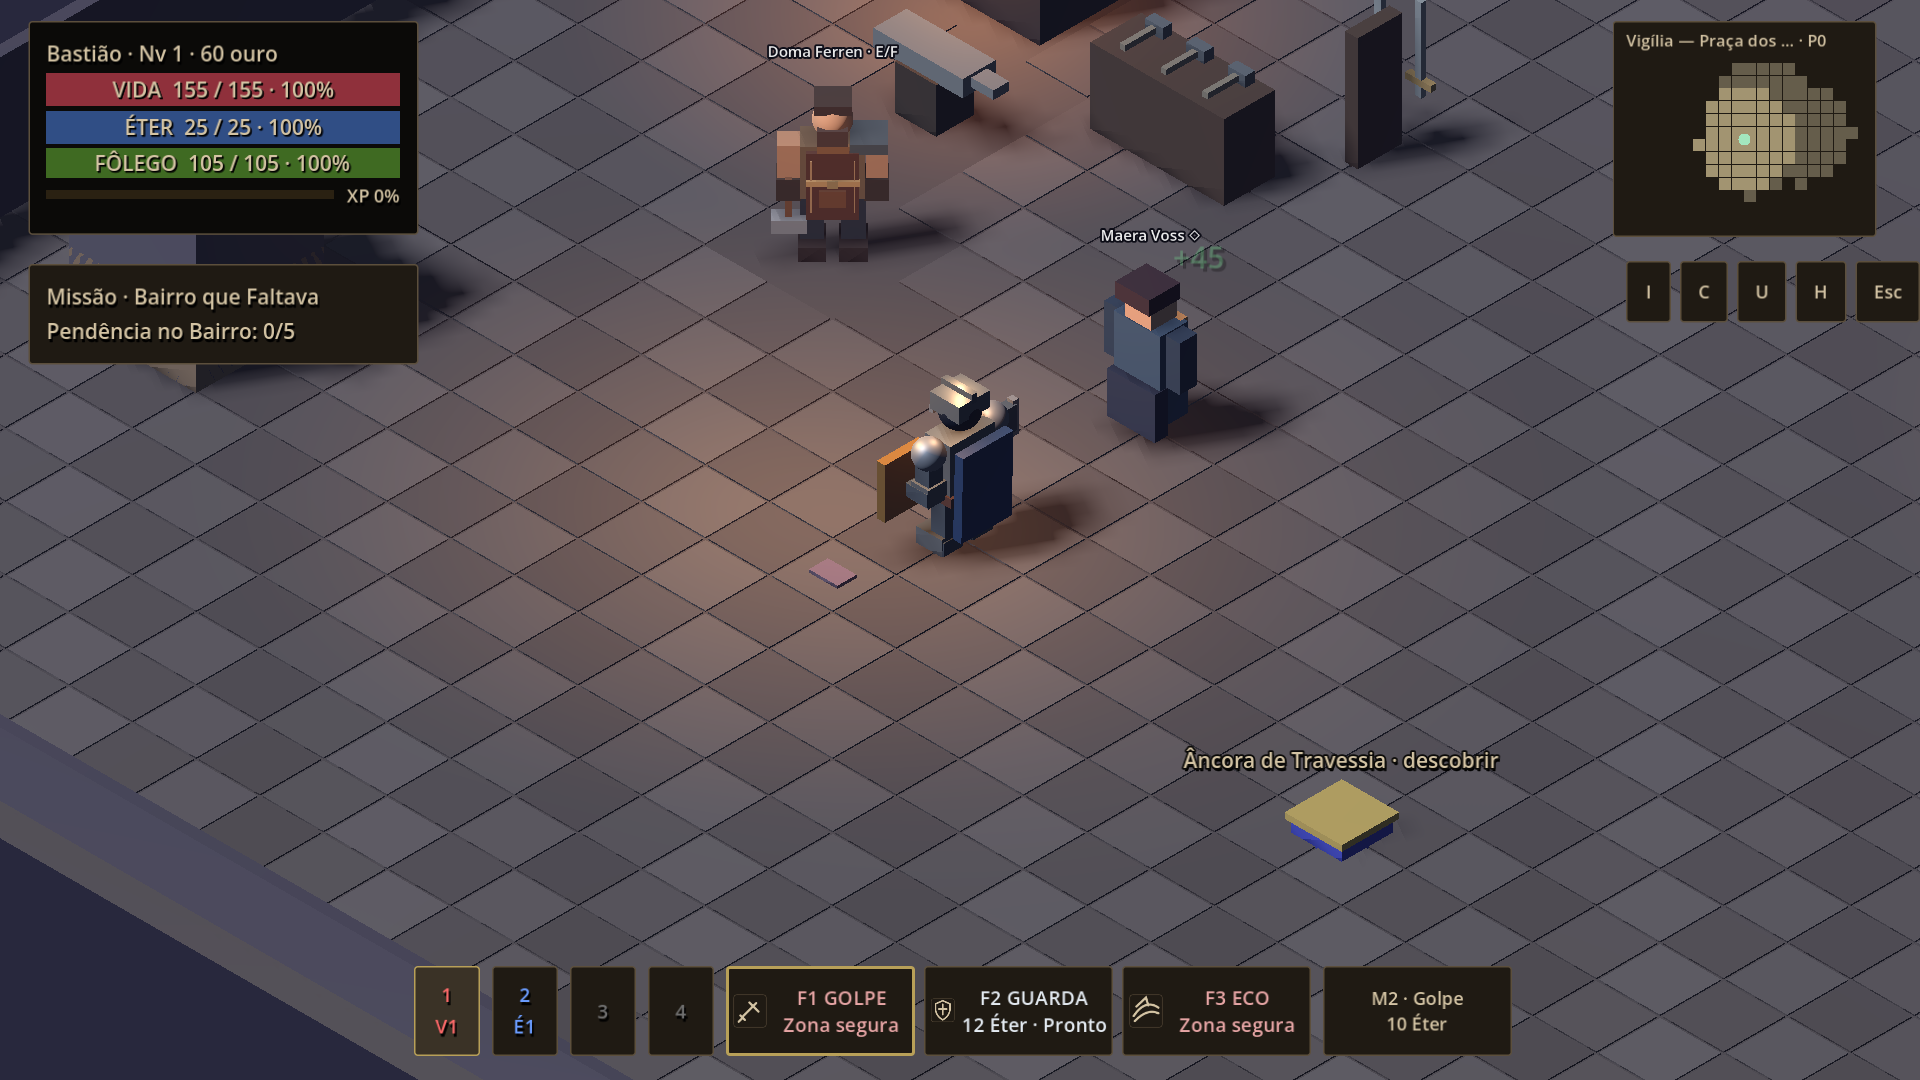
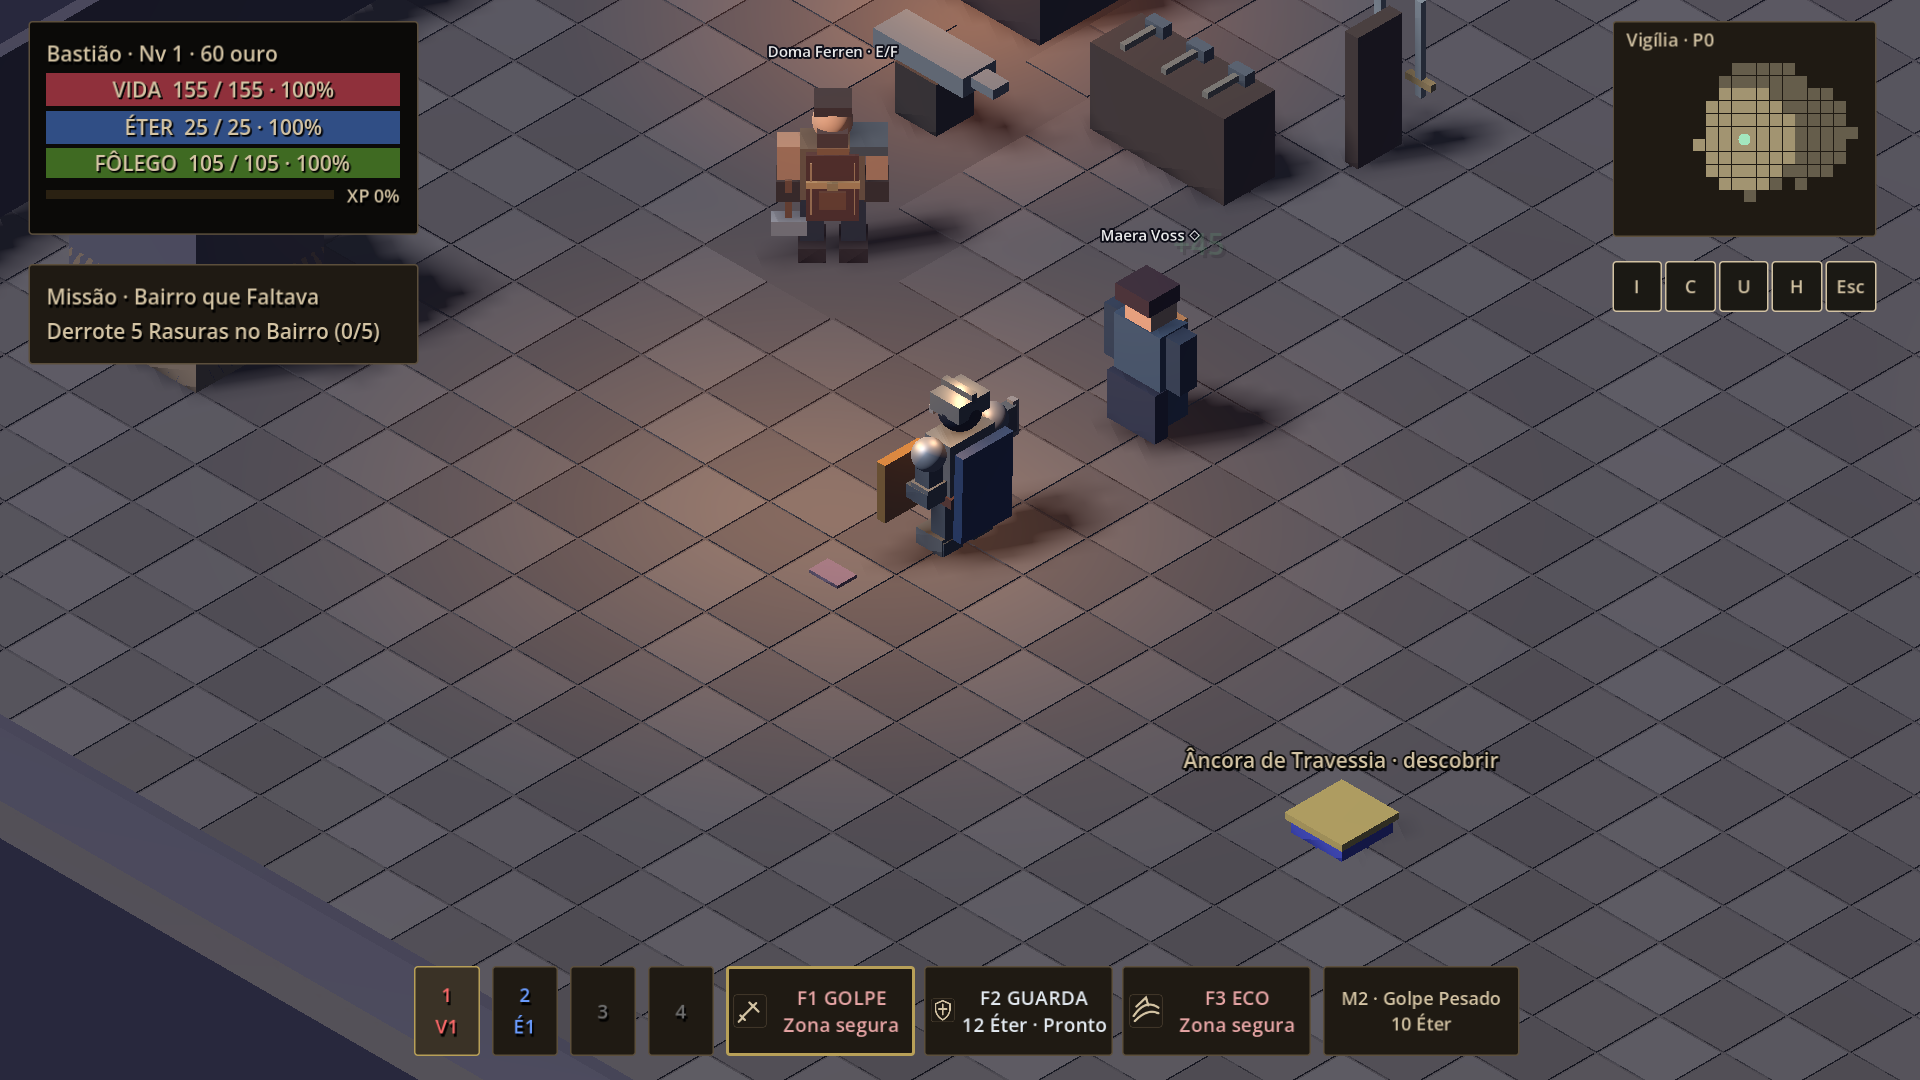
Prepare actor replacement contracts and refine archive HUD

diff --git a/docs/FASE27_VALIDATION.md b/docs/FASE27_VALIDATION.md
@@ -6,7 +6,7 @@
 
 - Validador do grafo: zero erros; IDs/cenas, entradas, retornos e caminhos críticos conferidos.
 - 21 suítes completas aprovadas, incluindo inventário/arraste, NPCs/comércio, combate, HUD, persistência, consolidação e bot10/10. Resultados em relatorios-fase20/results.json e logs *-final.log no ZIP.
-- Fase27: 138 verificações finais, incluindo ataques/custos/dano na transição, retorno seguro, buffer dos encontros, rampa/altura/raycast, navegação/porta, fog por piso, posições inválidas, migração, recompensas e XP parcial. O número pode variar com pares de rótulos visíveis; todas as falhas são explícitas.
+- Fase27: 142 verificações finais, incluindo ataques/custos/dano na transição, retorno seguro, buffer dos encontros, rampa/altura/raycast, navegação/porta, fog por piso, posições inválidas, migração, recompensas e XP parcial. O número pode variar com pares de rótulos visíveis; todas as falhas são explícitas.
 - GUI headless:157 verificações; renderizador real:169 verificações, inputs nativos, circuito completo e12 capturas reais (quatro regiões nas duas resoluções, mapa expandido, retorno a Doma e XP parcial nas duas resoluções). Inspeção visual realizada. Fixtures neutralizam movimento/colisão de combate dos inimigos; preservam piso e gravidade. Combate é testado separadamente.
 - EXE Windows exportado:32 verificações aprovadas de menu, movimento, combate, comércio, save/loot/objetos, âncoras e conexões canônicas.
 - XP50% validada no preenchimento fino e em ganho real de progressão; painel de status/missão≈260px; minimapa compacto centrado no jogador; rastreador de pendência no Bairro não usa mortes do Arquivo para completar missão.
@@ -17,10 +17,10 @@
 
 | Região | Mediana ms/frame | p95 ms/frame | Draw calls |
 |---|---:|---:|---:|
-| map_01 | 35.51 | 42.89 | 267 |
-| map_02 | 35.77 | 43.27 | 229 |
-| map_03 | 35.90 | 42.23 | 207 |
-| map_04 | 36.01 | 40.43 | 222 |
+| map_01 | 35.29 | 42.42 | 267 |
+| map_02 | 36.75 | 43.09 | 231 |
+| map_03 | 35.22 | 41.09 | 211 |
+| map_04 | 35.43 | 38.42 | 226 |
 
 Reproduzir: Godot gráfico com `--path . --script res://tools/profile_regions.gd`, em perfil AETHEL_TEST_SAVE_DIR isolado. Dados completos em docs/evidence/fase27-performance.json.
 
@@ -31,3 +31,9 @@ Playtest humano completo continua pendente. Não confundir automação gráfica 
 Mapas são estruturas greybox iniciais, sem o chefe do Arquivo, cutscenes, decisão canônica ou campanha completa. Perfil de desempenho ainda requer otimização e medições na máquina do jogador. Avisos ambientais de certificados/cache/editor e avisos de encerramento de ObjectDB em algumas suítes estão nos logs; nenhuma falha crítica de GDScript passou nas validações finais.
 
 A planilha fornecida não foi alterada nem marcada como concluída. As restrições são respeitadas pela implementação: mesmos donos de estado, combate e save; layout usa âncoras da viewport. Alterações funcionais da Fase27 (navegação, segurança e contador regional) estão separadas da reorganização visual na documentação.
+
+## Revisão de personagens e HUD do Arquivo
+
+Recursos de contrato preservam as cápsulas existentes e instalam âncoras fora dos modelos. Troca efetiva do modelo do Bastião testada com posição, HP e forma física preservados. Registro de estados e ordem de produção em ART_REGISTRY.md, sem aprovações artísticas presumidas. Campeã e Elite recebem cristas e cores diferentes; Rasuras comuns também exibem nome. Oclusão verifica até quatro obstáculos sucessivos próximos, preservando piso e colisões.
+
+Fila alinhada à margem do minimapa; nomes curtos no mapa compacto; objetivo explicita Rasuras e Bairro; M2 Golpe Pesado; portal com contorno e texto ampliado; aviso de XP acima do modelo. Os 50 XP da captura foram injetados na fixture por gain_xp(50), sem inimigo derrotado: exercício de teste da barra, não recompensa narrativa.

diff --git a/docs/ART_REGISTRY.md b/docs/ART_REGISTRY.md
@@ -1,0 +1,30 @@
+# Contrato e registro de arte
+
+Todos os elementos abaixo continuam **protótipos sem aprovação artística**. Código procedural animado não equivale a rig ou animação final aprovada.
+
+| Elemento | Estado | Movimento disponível | Próximo passo |
+|---|---|---|---|
+| Bastião | Protótipo procedural | idle, deslocamento e ações procedurais | Modelo de referência da escala, depois rig |
+| Rasura comum | Protótipo procedural roxo | flutuação procedural | Modelo da família |
+| Rasura Campeã | Variação procedural azul, cristas curtas | flutuação procedural | Derivar da família aprovada |
+| Rasura Elite | Variação procedural dourada, cristas altas | flutuação procedural | Derivar da família aprovada |
+| Maera Voss | Protótipo procedural | idle procedural | Modelo e retrato originais |
+| Doma Ferren | Protótipo procedural | idle procedural | Modelo e retrato originais |
+| Lyra e Sera | Não implementadas nesta base | Nenhuma | Validar cânone e especificação antes de implementar |
+| Vigília, Bairro, Pátio e Arquivo | Geometria inicial | Não se aplica | Kit modular original após contratos dos atores |
+
+## Substituição
+
+`AethelActorPresentationContract` e os recursos `data/characters/*_contract.tres` definem dimensões em metros, eixo Y para cima, origem nos pés e âncoras `feet`, `weapon`, `label`, `health`. Instalado no ator, fora do modelo. Herói: cápsula 0,32 m × 1,60 m; Rasura: 0,34 m × 1,60 m multiplicada por 1/1,2/1,45; Doma: 0,40 m × 1,80 m. Maera usa seleção/interação, sem colisão física adicionada. Nenhuma dimensão de gameplay foi alterada.
+
+O modelo é filho substituível (`BastiaoVisual/Model`, `RasuraVisual`, `MaeraVisual`, `DomaVisual`). `AethelCharacterVisual.replace_model` troca a apresentação do herói sem recriar o ator. NPCs e Rasuras mantêm seus filhos visuais independentes. Importar com pés na origem e escala unitária antes do multiplicador da categoria. Equipamento esquelético deverá ligar os sockets do rig às âncoras; marcadores preparados não constituem rig implementado.
+
+Colisão, seleção, NavigationAgent, estatísticas, alcance e eventos de dano permanecem no ator. Nunca importar CollisionShape, scripts de combate ou NavigationAgent dentro do modelo. Testar troca com cápsula, posição e recursos inalterados antes de aprovar cada asset.
+
+Ordem: Bastião → família Rasura → NPCs confirmados no cânone → kit modular. Herói tem armadura e equipamento; NPCs usam roupa e cor própria; Rasuras têm manto flutuante, Campeã cristas curtas azuis e Elite cristas altas douradas. Cor não é a única indicação de categoria.
+
+## Revisão da captura do Arquivo
+
+Os +50 XP foram gerados explicitamente por `Progression.gain_xp(50)` na fixture gráfica para verificar preenchimento e percentual. Não são recompensa de inimigo nem ganho espontâneo em gameplay. O aviso agora nasce acima do modelo. O rastreador explicita Rasuras e Bairro; M2 usa Golpe Pesado; cabeçalho compacto usa Arquivo/Pátio/Bairro/Vigília; fila compartilha a borda do minimapa. Rótulos de portal têm contorno e maior tamanho.
+
+Oclusão testa torso de inimigos próximos e até quatro obstáculos sucessivos. A HUD continua sobre a cena: transparência de parede não faz inimigos aparecerem por cima do minimapa. Não revelar nomes através da HUD; alvo selecionado continua identificado no painel de alvo. Playtest humano e arte definitiva permanecem pendentes.
